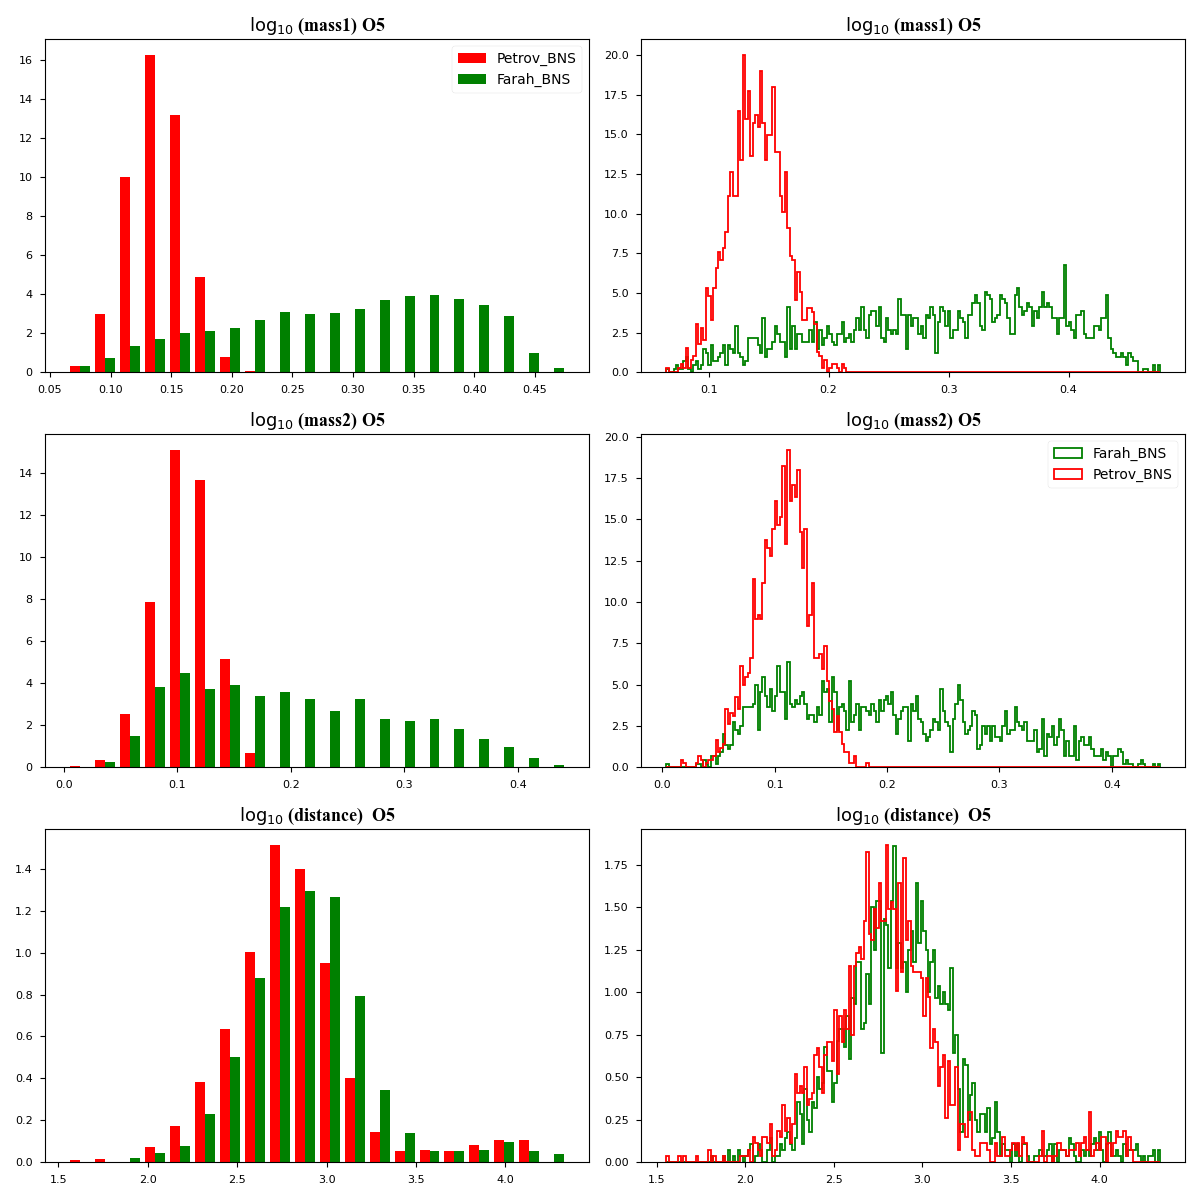
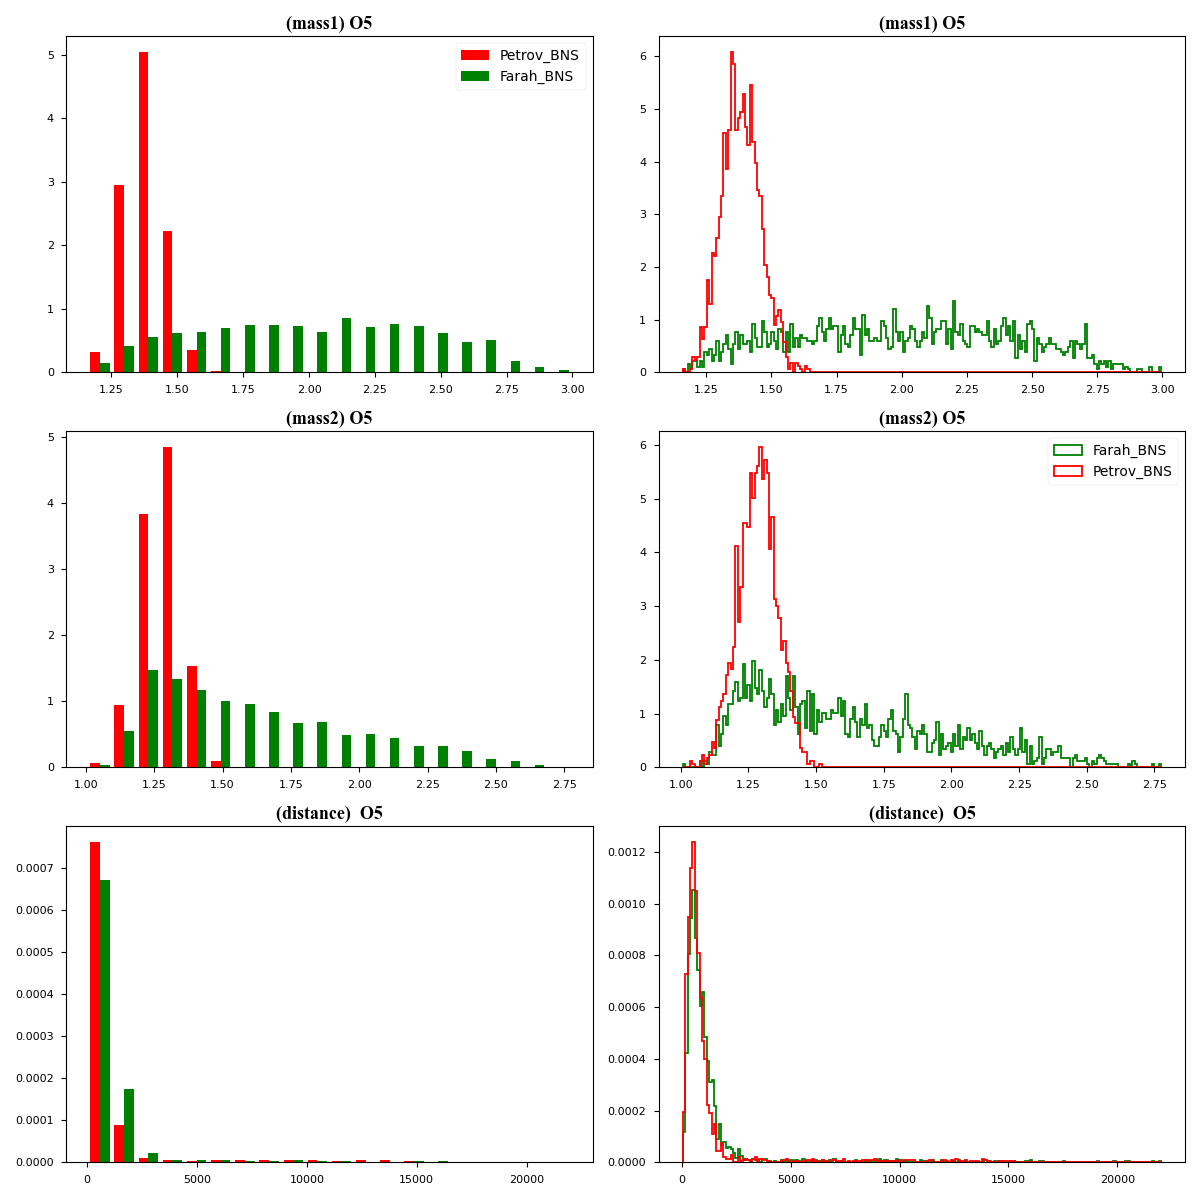
plot without log

diff --git a/dist_for_each_pot.py b/dist_for_each_pot.py
@@ -78,8 +78,7 @@ with tqdm(total=len(run_dirs) * len(pops)) as progress:
 
             del injections, table, source_mass1, source_mass2, z, zp1
             progress.update()
-
-            
+    
 #Plot Histogram farah and bayestar-intect internal data,
 colors = ['r', 'g']
 
@@ -108,34 +107,34 @@ with tqdm(total=len(run_names)) as progress:
             Petrov = Table(tables[run_name][f'{pop.lower()}_astro'])
             Farah = Table(tables[run_name][f'farah_{pop.lower()}']) 
             
-            distance = [np.log10(Petrov['distance']), np.log10(Farah['distance'])]
-            mass1    = [np.log10(Petrov['mass1']),    np.log10(Farah['mass1'])]
-            mass2    = [np.log10(Petrov['mass2']),    np.log10(Farah['mass2'])]
+            distance = [Petrov['distance'], Farah['distance']]
+            mass1    = [Petrov['mass1'],    Farah['mass1']]
+            mass2    = [Petrov['mass2'],    Farah['mass2']]
                 
             #mass1
             axs[0, 0].hist(mass1, bins=20, density=12, histtype='bar', color=colors, label= [f'Petrov_{pop}', f'Farah_{pop}'])
             axs[0, 1].hist(mass1, bins=200, density =12, histtype='step' , color=colors,   label= [f'Petrov_{pop}', f'Farah_{pop}'], linewidth=1.3)
             axs[0, 0].legend(prop={'size': 10})
-            axs[0, 0].set_title(r'$\log_{10}$ (mass1)' + f' {run_name}', fontname="Times New Roman", size=13, fontweight="bold")
+            axs[0, 0].set_title(r'(mass1)' + f' {run_name}', fontname="Times New Roman", size=13, fontweight="bold")
             #axs[0, 1].legend(prop={'size': 10})
-            axs[0, 1].set_title(r'$\log_{10}$ (mass1)' + f' {run_name}', fontname="Times New Roman", size=13, fontweight="bold")
+            axs[0, 1].set_title(r'(mass1)' + f' {run_name}', fontname="Times New Roman", size=13, fontweight="bold")
 
             #mass2
             axs[1, 0].hist(mass2, bins=20, density=2, histtype='bar', color=colors,  label= [f'Petrov_{pop}', f'Farah_{pop}'])
             axs[1, 1].hist(mass2, bins=200, density =2, histtype='step' , color=colors,   label= [f'Petrov_{pop}', f'Farah_{pop}'], linewidth=1.3)
             #axs[1, 0].legend(prop={'size': 10})
-            axs[1, 0].set_title(r'$\log_{10}$ (mass2)' + f' {run_name}', fontname="Times New Roman", size=13, fontweight="bold")
+            axs[1, 0].set_title(r'(mass2)' + f' {run_name}', fontname="Times New Roman", size=13, fontweight="bold")
             axs[1, 1].legend(prop={'size': 10})
-            axs[1, 1].set_title(r'$\log_{10}$ (mass2)' + f' {run_name}', fontname="Times New Roman", size=13, fontweight="bold") 
+            axs[1, 1].set_title(r'(mass2)' + f' {run_name}', fontname="Times New Roman", size=13, fontweight="bold") 
 
             #distance
             axs[2, 0].hist(distance, bins=20, density=2, histtype='bar', color=colors,  label= [f'Petrov_{pop}', f'Farah_{pop}'])
 
             axs[2, 1].hist(distance, bins=200, density =2, histtype='step' , color=colors,   label= [f'Petrov_{pop}', f'Farah_{pop}'], linewidth=1.3)
             #axs[2, 0].legend(prop={'size': 10})
-            axs[2, 0].set_title(r'$\log_{10}$ (distance)' + f'  {run_name}', fontname="Times New Roman", size=13, fontweight="bold")
+            axs[2, 0].set_title(r'(distance)' + f'  {run_name}', fontname="Times New Roman", size=13, fontweight="bold")
             #axs[2, 1].legend(prop={'size': 10})
-            axs[2, 1].set_title(r'$\log_{10}$ (distance)' + f'  {run_name}', fontname="Times New Roman", size=13, fontweight="bold")
+            axs[2, 1].set_title(r'(distance)' + f'  {run_name}', fontname="Times New Roman", size=13, fontweight="bold")
             
             plt.gcf().set_size_inches(12, 12)
             plt.subplots_adjust(left=0.1,

diff --git a/farah_initial.py b/farah_initial.py
@@ -1,0 +1,78 @@
+import os
+from astropy.table import  Table
+
+import pandas as pd
+import numpy as np
+
+from matplotlib.pyplot import figure
+from matplotlib import pyplot as plt
+import matplotlib
+plt.style.use('seaborn-paper')
+
+data_dir = './data/farah_input/farah.h5'
+
+outdir = "./outdir"
+
+colors = ['r', 'g', 'b']
+
+Farah = Table.read(f"{data_dir}")
+Farah.sort('mass1')
+
+params = ['mass', 'spin']
+
+ns_max_mass = 3
+
+source_mass1 = Farah['mass1']
+source_mass2 = Farah['mass2']
+
+BNS   =  Farah[(source_mass1 < ns_max_mass) & (source_mass2 < ns_max_mass)]
+NSBH  =  Farah[(source_mass1 >= ns_max_mass) & (source_mass2 < ns_max_mass)]
+BBH   =  Farah[(source_mass1 >= ns_max_mass) & (source_mass2 >= ns_max_mass)]
+
+plt.clf()
+# Figure Plot 
+fig, axs = plt.subplots(nrows=3, ncols=2) 
+
+mass1    = [BNS['mass1'],    NSBH['mass1'], BBH['mass1']]
+mass2    = [BNS['mass2'],    NSBH['mass2'], BBH['mass2']]
+
+spin1z    = [BNS['spin1z'],    NSBH['spin1z'], BBH['spin1z']]
+spin2z    =   [BNS['spin2z'],    NSBH['spin2z'], BBH['spin2z']]
+       
+#mass1
+axs[0, 0].hist(mass1, bins=30, density=12, histtype='bar', color=colors, label= ['BNS', 'NSBH', 'BBH'])
+axs[0, 1].hist(mass1, bins=300, density =12, histtype='step' , color=colors,   label= ['BNS', 'NSBH', 'BBH'], linewidth=2)
+axs[0, 0].legend(prop={'size': 10})
+axs[0, 0].set_title(r' (mass1)' + f' Farah', fontname="Times New Roman", size=13, fontweight="bold")
+#axs[0, 1].legend(prop={'size': 10})
+axs[0, 1].set_title(r'(mass1)' + f' Farah', fontname="Times New Roman", size=13, fontweight="bold")
+
+#mass2
+axs[1, 0].hist(mass2, bins=30, density=12, histtype='bar', color=colors,  label= ['BNS', 'NSBH', 'BBH'])
+axs[1, 1].hist(mass2, bins=300, density =2, histtype='step' , color=colors,   label= ['BNS', 'NSBH', 'BBH'], linewidth=2)
+#axs[1, 0].legend(prop={'size': 10})
+axs[1, 0].set_title(r' (mass2)' + f' Farah', fontname="Times New Roman", size=13, fontweight="bold")
+axs[1, 1].legend(prop={'size': 10})
+axs[1, 1].set_title(r'(mass2)' + f' Farah', fontname="Times New Roman", size=13, fontweight="bold") 
+
+#spinz1
+axs[2, 0].hist(spin1z, bins=30, density=12, histtype='bar', color=colors,  label= ['BNS', 'NSBH', 'BBH'])
+
+axs[2, 1].hist(spin1z, bins=300, density =12, histtype='step' , color=colors,   label= ['BNS', 'NSBH', 'BBH'], linewidth=2)
+#axs[2, 0].legend(prop={'size': 10})
+axs[2, 0].set_title(r' (spin1z)' + f'  Farah', fontname="Times New Roman", size=13, fontweight="bold")
+#axs[2, 1].legend(prop={'size': 10})
+axs[2, 1].set_title(r'(spin1z)' + f'  Farah', fontname="Times New Roman", size=13, fontweight="bold")
+
+plt.gcf().set_size_inches(12, 12)
+plt.subplots_adjust(left=0.1,
+        bottom=0.1,
+        right=0.9,
+        top=0.9,
+        wspace=0.4,
+        hspace=0.4)
+fig.tight_layout()
+plt.savefig(f'{outdir}/hist_Farah.png')
+
+
+                        

diff --git a/farah_initial_distribution.py b/farah_initial_distribution.py
@@ -31,8 +31,8 @@ fig, axs = plt.subplots(nrows=2, ncols=1)
 with tqdm(total=len(params)) as progress:
     for param in params:
         if (param=='mass'):
-            mass1    = np.log10(Farah['mass1'])
-            mass2    = np.log10(Farah['mass2'])
+            mass1    = np.log10(Farah['mass1'][::20])
+            mass2    = np.log10(Farah['mass2'][::20])
             xy       = np.vstack([mass1 , mass2])
             
             z        = gaussian_kde(xy)(xy)
@@ -48,9 +48,9 @@ with tqdm(total=len(params)) as progress:
             
         else:
 
-            spin1z   = np.log10(Farah['spin1z'])
-            spin2z   = np.log10(Farah['spin2z'])
-            xy    = np.vstack([spin1z , spin2z])
+            spin1z   = np.log10(Farah['spin1z'][::20])
+            spin2z   = np.log10(Farah['spin2z'][::20])
+            xy    = np.vstack([spin1z , spin2z][::20])
                                                     
             z     = gaussian_kde(xy)(xy)
             index = z.argsort()
